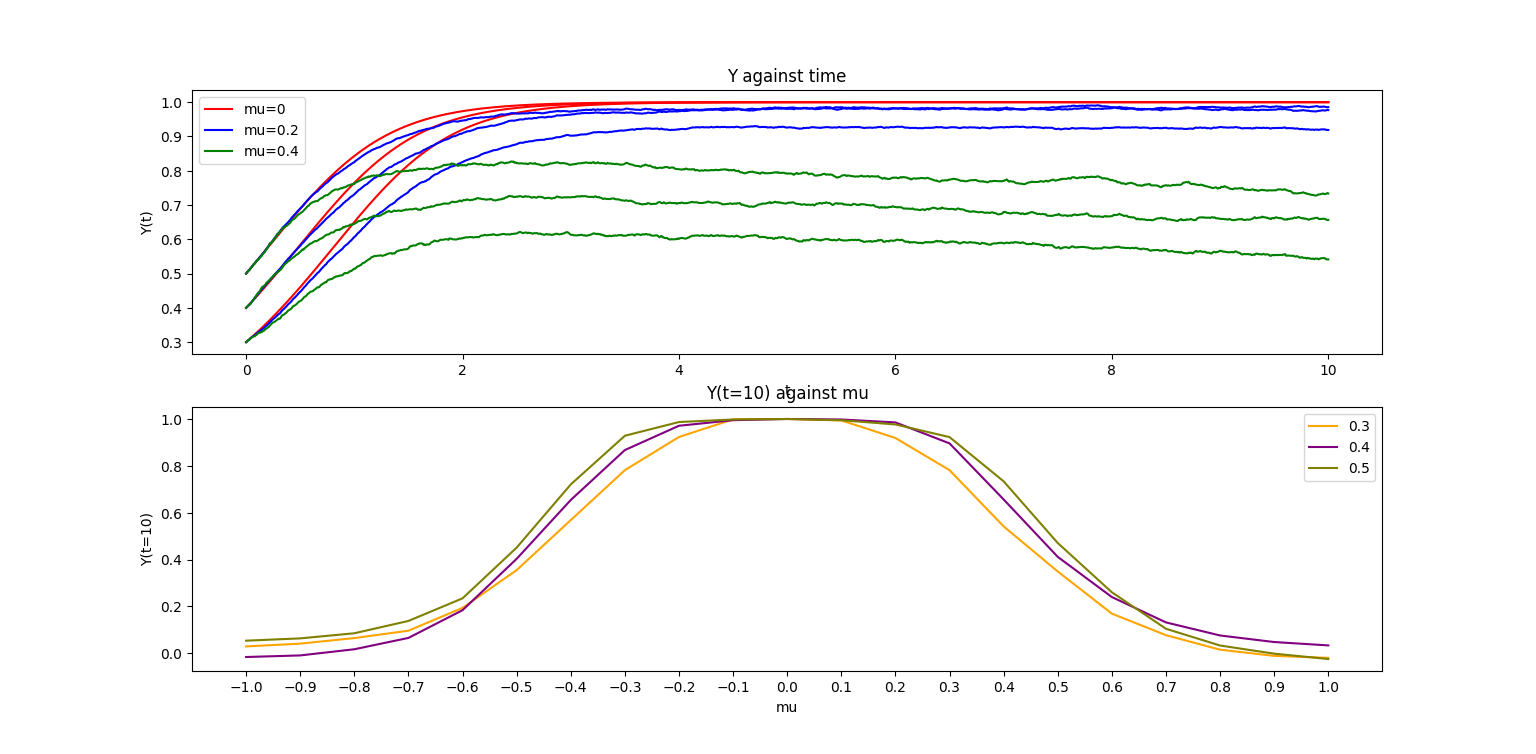
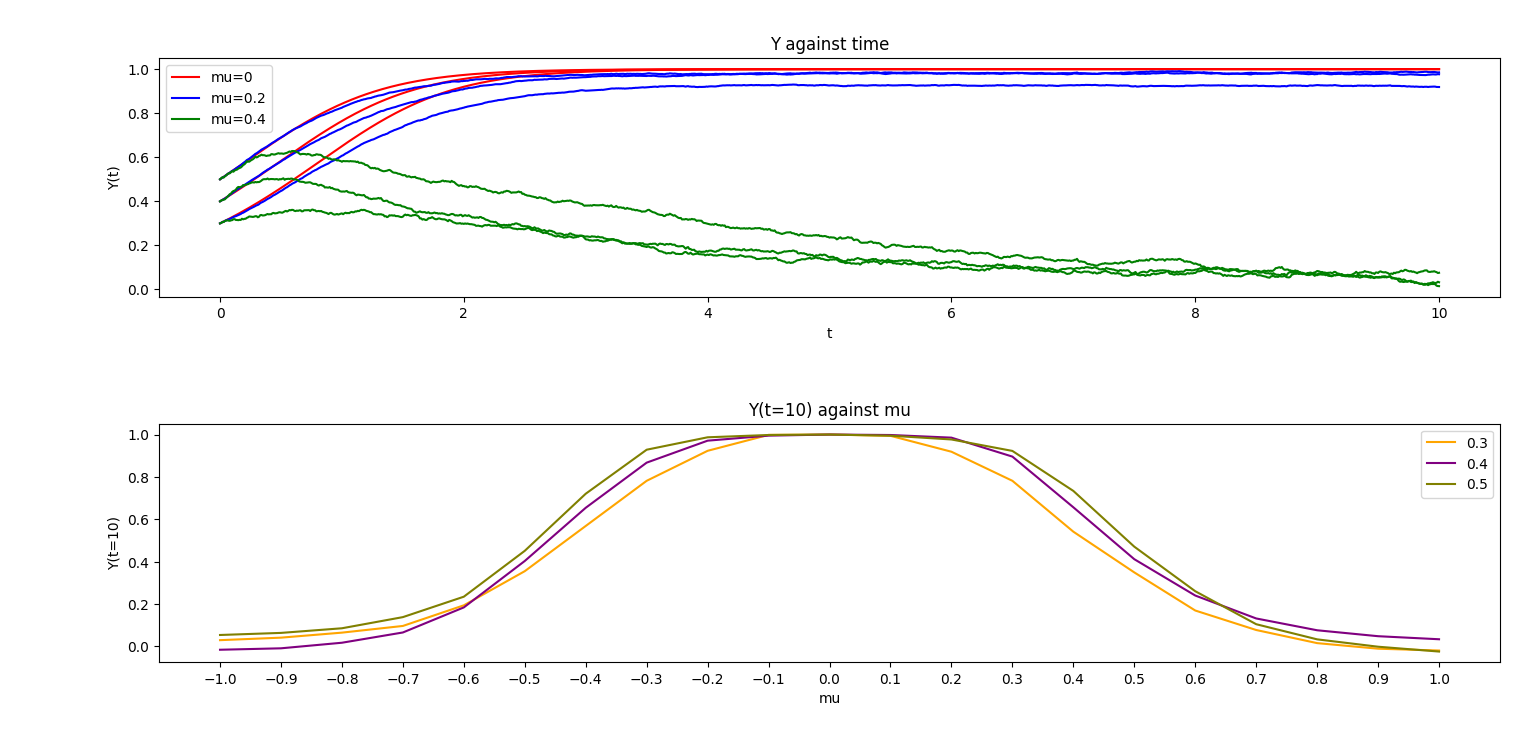
sdas

diff --git a/Project 2/project2.py b/Project 2/project2.py
@@ -418,7 +418,7 @@ def part2q3Analyze(): #add input variables as needed
     """
 
     N_sim = 1000
-    mus = [0.2, 0.4]
+    mus = [0.2, 0.8]
 
     t, y0 = part2q3(mu = 0)
     
@@ -477,6 +477,7 @@ def part2q3Analyze(): #add input variables as needed
     ax[1].legend()
     ax[1].set_xticks(np.linspace(-1, 1, 21))
 
+    plt.tight_layout()
     plt.show()
     
     return None #modify as needed
